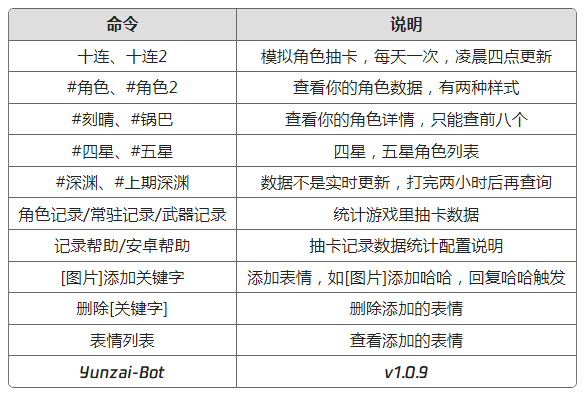
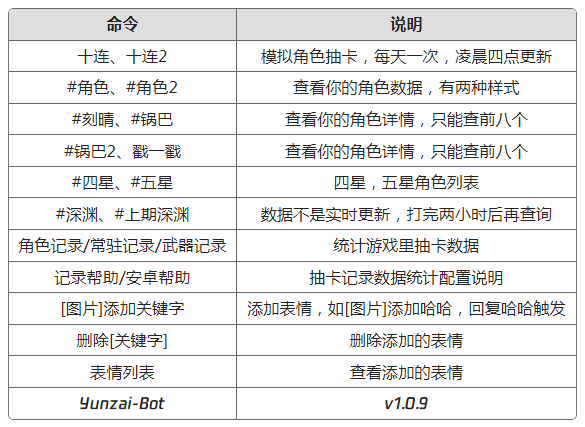
#戳一戳

Changed region(s): [[0.0, 0.0, 0.9846, 1.0]]

diff --git a/lib/app/mysInfo.js b/lib/app/mysInfo.js
@@ -15,7 +15,7 @@ async function roleAll(e) {
   let res = await getUid(e);
 
   if (!res.uid && res.isSelf) {
-    e.reply("请先发送uid+你游戏的uid");
+    e.reply("请先发送#+你游戏的uid");
     return true;
   }
 
@@ -235,7 +235,7 @@ async function role(e) {
   let res = await getUid(e);
 
   if (!res.uid && res.isSelf) {
-    e.reply("请先发送uid+你游戏的uid");
+    e.reply("请先发送#+你游戏的uid");
     return true;
   }
 
@@ -328,7 +328,7 @@ async function abyss(e) {
   let res = await getUid(e);
 
   if (!res.uid && res.isSelf) {
-    e.reply("请先发送uid+你游戏的uid");
+    e.reply("请先发送#+你游戏的uid");
     return true;
   }
 
@@ -435,7 +435,7 @@ async function abyssFloor(e) {
   let res = await getUid(e);
 
   if (!res.uid && res.isSelf) {
-    e.reply("请先发送uid+你游戏的uid");
+    e.reply("请先发送#+你游戏的uid");
     return true;
   }
 
@@ -550,7 +550,7 @@ async function life(e) {
   let res = await getUid(e);
 
   if (!res.uid && res.isSelf) {
-    e.reply("请先发送uid+你游戏的uid");
+    e.reply("请先发送#+你游戏的uid");
     return true;
   }
 
@@ -639,7 +639,7 @@ async function weapon(e) {
   let res = await getUid(e);
 
   if (!res.uid && res.isSelf) {
-    e.reply("请先发送uid+你游戏的uid");
+    e.reply("请先发送#+你游戏的uid");
     return true;
   }
 
@@ -735,7 +735,7 @@ async function character(e) {
   let uidRes = await getUid(e);
 
   if (!uidRes.uid && uidRes.isSelf) {
-    e.reply("请先发送uid+你游戏的uid");
+    e.reply("请先发送#+你游戏的uid");
     return true;
   }
 
@@ -796,7 +796,7 @@ async function wife(e) {
   let uidRes = await getUid(e);
 
   if (!uidRes.uid && uidRes.isSelf) {
-    e.reply("请先发送uid+你游戏的uid");
+    e.reply("请先发送#+你游戏的uid");
     return true;
   }
 
@@ -915,7 +915,7 @@ async function character2(e) {
 
   if (!uidRes.uid && uidRes.isSelf) {
     if (!e.isPoke) {
-      e.reply("请先发送uid+你游戏的uid");
+      e.reply("请先发送#+你游戏的uid");
     }
     return true;
   }
@@ -945,6 +945,7 @@ async function character2(e) {
 
   if (e.isPoke) {
     avatars = lodash.sample(avatars);
+    Bot.logger.mark(`戳一戳:${avatars.name}`);
   } else if (!avatars[id]) {
     return true;
   } else {
@@ -965,15 +966,37 @@ async function character2(e) {
       e.reply(`暂无${roleName}素材`);
     }
   }
-  randBg = lodash.sample(randBg);
 
-  let base64 = await render("genshin", "character2", {
-    save_id: uid,
-    uid: uid,
-    element: element[avatars.name],
-    randBg,
-    ...get_character(avatars),
-  });
+  let logKey = `genshin:randBg:${e.group_id}`;
+  let old = await redis.get(logKey);
+  if (old) {
+    old = JSON.parse(old);
+    let tmp = lodash.difference(randBg, old);
+    if (tmp.length > 0) {
+      randBg = tmp;
+    }else{
+      old = [];
+    }
+  } else {
+    old = [];
+  }
+
+  randBg = lodash.sample(randBg);
+  old.push(randBg);
+  redis.set(logKey, JSON.stringify(old), { EX: 3600 * 4 });
+
+  let base64 = await render(
+    "genshin",
+    "character2",
+    {
+      save_id: uid,
+      uid: uid,
+      element: element[avatars.name],
+      randBg,
+      ...get_character(avatars),
+    },
+    "png"
+  );
 
   if (base64) {
     if (e.isPoke) {
@@ -988,7 +1011,6 @@ async function character2(e) {
 
 //戳一戳返回角色卡片
 async function pokeCharacter(e) {
-  e.user_id = e.operator_id;
   e.msg = await redis.get(`genshin:uid:${e.operator_id}`);
   character2(e);
 }
@@ -1068,6 +1090,7 @@ function get_character(avatars) {
 
   return {
     name: avatars.name,
+    showName: abbr[avatars.name] ? abbr[avatars.name] : avatars.name,
     level: avatars.level,
     fetter: avatars.fetter,
     actived_constellation_num: avatars.actived_constellation_num,

diff --git a/lib/dealMsg.js b/lib/dealMsg.js
@@ -4,17 +4,16 @@ let groupCD = {};
 let singleCD = {};
 
 async function dealMsg(e) {
-
   if (!e.sender.card) {
     e.sender.card = e.sender.nickname;
   }
 
   //黑名单
-  if(BotConfig.balckQQ && BotConfig.balckQQ.includes(Number(e.user_id))){
+  if (BotConfig.balckQQ && BotConfig.balckQQ.includes(Number(e.user_id))) {
     return;
   }
 
-  if (e.isGroup){
+  if (e.isGroup) {
     //禁言中
     if (e.group.mute_left > 0) {
       return;
@@ -56,7 +55,7 @@ async function dealMsg(e) {
     e.hasRelpy = true;
   }
 
-  if(typeof YunzaiApps == 'undefined'){
+  if (typeof YunzaiApps == "undefined") {
     return;
   }
 
@@ -71,21 +70,17 @@ async function dealMsg(e) {
       let reg = new RegExp(command[i]);
       if (reg.test(e.msg)) {
         Bot.logger.mark(`${e.msg}:${i}`);
-
+        setLimit(e);
         let res = await YunzaiApps[i][i](e);
         if (res) {
-          setLimit(e);
           break a;
         }
       }
     } else {
       b: for (let j in command[i]) {
         if (command[i][j] == "noCheck") {
-
           Bot.logger.debug(`${e.msg}:${i}.${j}`);
-
           let res = await YunzaiApps[i][j](e);
-
           if (res) {
             break a;
           }
@@ -93,10 +88,9 @@ async function dealMsg(e) {
           let reg = new RegExp(command[i][j]);
           if (reg.test(e.msg)) {
             Bot.logger.mark(`${e.msg}:${i}.${j}`);
-
+            setLimit(e);
             let res = await YunzaiApps[i][j](e);
             if (res) {
-              setLimit(e);
               break a;
             }
           }
@@ -156,12 +150,21 @@ async function dealGroupNotice(e) {
 }
 
 function dealPoke(e) {
+  e.user_id = e.operator_id;
+
   if (e.target_id != BotConfig.account.qq) {
     return;
   }
-  if (e.groupConfig.disable.includes("mysInfo")) {
+  if (e.groupConfig.disable && e.groupConfig.disable.includes("mysInfo")) {
     return;
   }
+
+  if (!checkLimit(e)) {
+    return;
+  }
+
+  setLimit(e);
+
   e.isPoke = true;
   YunzaiApps.mysInfo.pokeCharacter(e);
 }

diff --git a/resources/genshin/character2/character2.css b/resources/genshin/character2/character2.css
@@ -1,6 +1,6 @@
 @font-face {
   font-family: HYWenHei-55W;
-  src: url("../../font/HYWenHei-55W.TTF") format("woff2");
+  src: url("../../font/HYWenHei-55W.ttf");
 }
 * {
   margin: 0;
@@ -36,7 +36,7 @@ body {
   min-width: 180px;
   position: relative;
   display: inline-block;
-  margin: 10px 20px 0px 20px;
+  margin: 20px 20px 0px 20px;
   padding: 10px 10px;
   border-radius: 9px;
   z-index: 1;
@@ -149,7 +149,7 @@ body {
   clip-path: polygon(0% 0%, 100% 0, 100% 0%, 70% 100%, 0% 100%);
 }
 .bg_冰 {
-  background-color: #b1ecff;
+  background-color: #82c1d5;
 }
 .冰 {
   border-left: 5px solid #b1ecff;

diff --git a/resources/genshin/character2/character2.html b/resources/genshin/character2/character2.html
@@ -12,7 +12,7 @@
   <style>
     .container {
       background-image: url(../../../../resources/genshin/logo/bg2/{{name}}/{{randBg}});
-      background-size: 100%;
+      background-size: 100% 100%;
     }
   </style>
   <body>
@@ -21,7 +21,7 @@
         <div class="top">
           <div class="user-info">
             <div class="name-wrap">
-                <div class="name">{{name}}</div>
+                <div class="name">{{showName}}</div>
                 <div class="level">Lv.{{level}}</div>
             </div>
             <div class="uid">ID：{{uid}}</div>

diff --git a/resources/help/help.html b/resources/help/help.html
@@ -83,6 +83,10 @@
           <td>查看你的角色详情，只能查前八个</td>
         </tr>
         <tr>
+          <td>#锅巴2、戳一戳</td>
+          <td>查看你的角色详情，只能查前八个</td>
+        </tr>
+        <tr>
           <td>#四星、#五星</td>
           <td>四星，五星角色列表</td>
         </tr>

diff --git a/config/config_default.js b/config/config_default.js
@@ -69,6 +69,7 @@ let config = {
   },
 
   //百度ocr https://ai.baidu.com/ai-doc/OCR/dk3iqnq51
+  //智障斗图用
   BaiduOcr:{
     APP_ID: "",
     API_KEY: "",

diff --git a/resources/readme/命令说明.md b/resources/readme/命令说明.md
@@ -10,6 +10,7 @@
 * 深渊数据不是马上更新，建议打完两小时后再查询
 * 抽卡记录json建议定期备份，避免米哈游接口出错导致数据错乱
 * `#体力` 查询树脂，需要配置
+* 智障斗图需要配置百度ocr（config.js最下面）
 
 ## 如何获取米游社 Cookie
 访问[米游社原神社区](https://bbs.mihoyo.com/ys/)，登录后账户点击 F12 

diff --git a/README.md b/README.md
@@ -34,6 +34,11 @@ node app
 </details>
 
 <details>
+<summary>戳一戳/#温迪2</summary>
+<img src="resources/readme/温迪2.png" alt="#早柚">
+</details>
+
+<details>
 <summary>#角色、#角色2</summary>
 <img src="resources/readme/角色.png" alt="#角色">
 </details>
